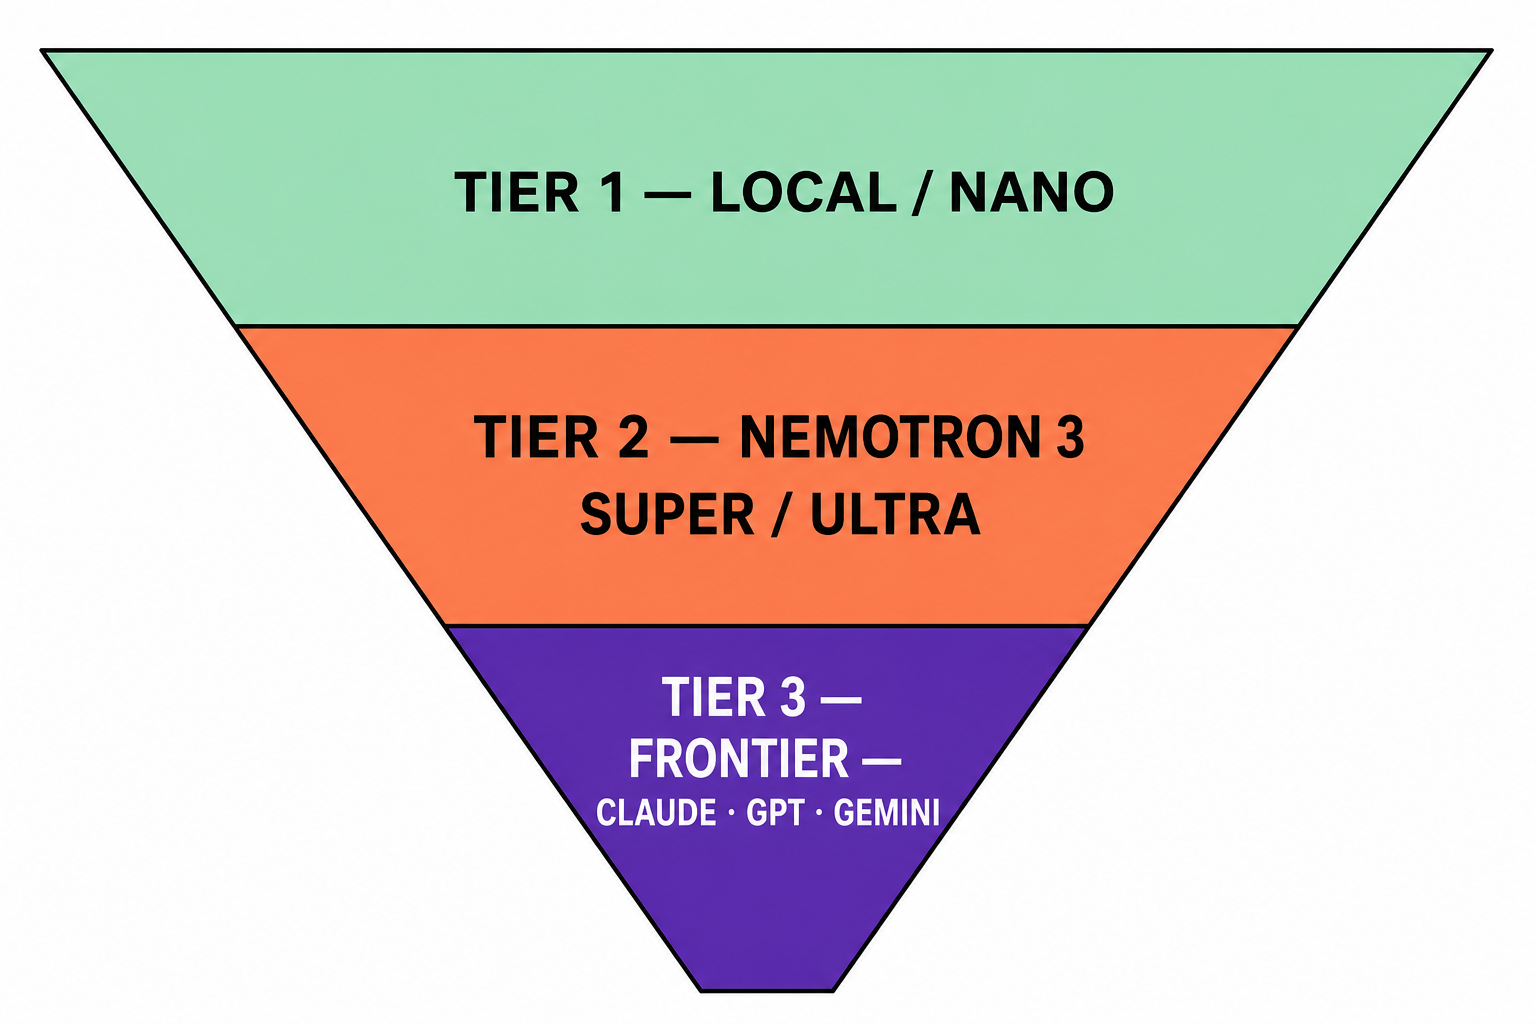
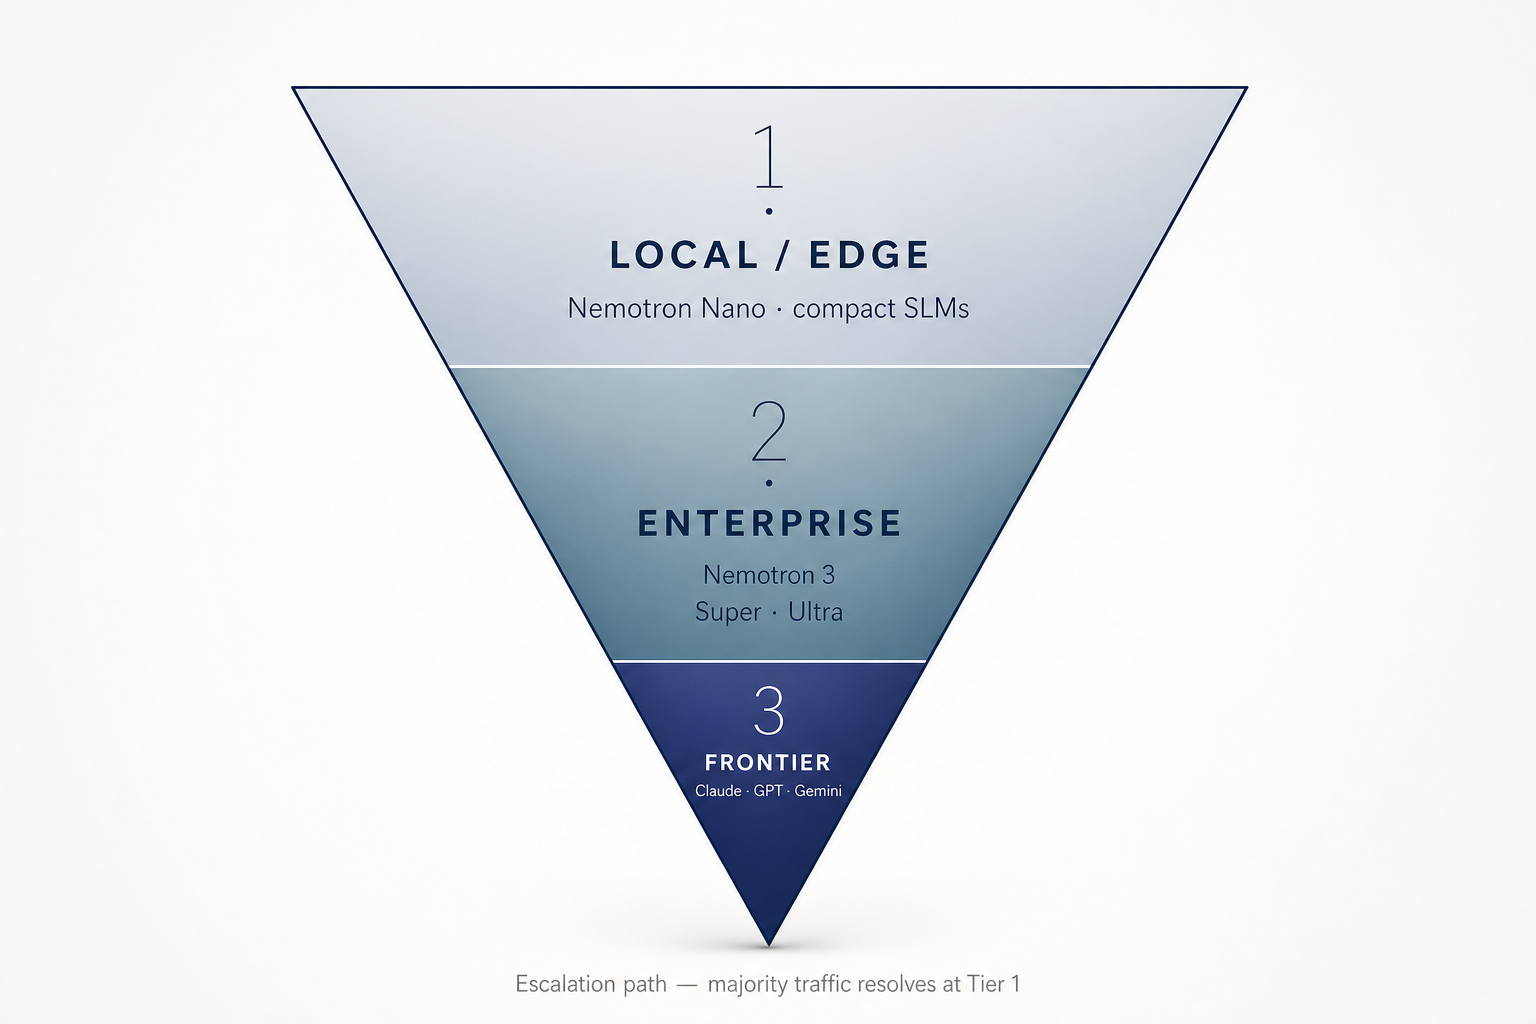
{"request":"commit, push","response":"Ran refresh-conversation-export.sh; staged README.md (C-suite copy), escalation-path-pyramid.png (boardroom-style graphic), conversation-export.jsonl; committed on branch cursor-dynamo; pushed to origin cursor-dynamo."}

diff --git a/cloud-service-providers/azure/workshops/cursor-dynamo/README.md b/cloud-service-providers/azure/workshops/cursor-dynamo/README.md
@@ -1,5 +1,5 @@
-**Escalation Path** — triangle on a white background: **Tier 1** is the wide top (most agent traffic); **Tier 2** is Nemotron 3 (Super / Ultra); **Tier 3** is the narrow tip (rare frontier escalation).
+**Escalation Path** — C-suite summary: a restrained triangle schematic with **Tier 1** carrying most volume at the top, **Tier 2** Nemotron 3 (Super / Ultra) in the middle, and a **thin Tier 3** at the sharp tip for rare frontier use (Claude, GPT, Gemini).
 
-![Escalation Path — triangle tiers from local SLMs (top) to frontier APIs (tip)](escalation-path-pyramid.png)
+![Escalation Path — boardroom-style triangle tiers](escalation-path-pyramid.png)
 
-*Graphic: generated with Cursor’s built-in image model (Gemini-class / diffusion-style image generation, comparable in spirit to Google Imagen / Gemini image tools).*
+*Graphic: Cursor image generation, styled for board decks—muted navy / slate palette, generous whitespace, sharp geometry.*
